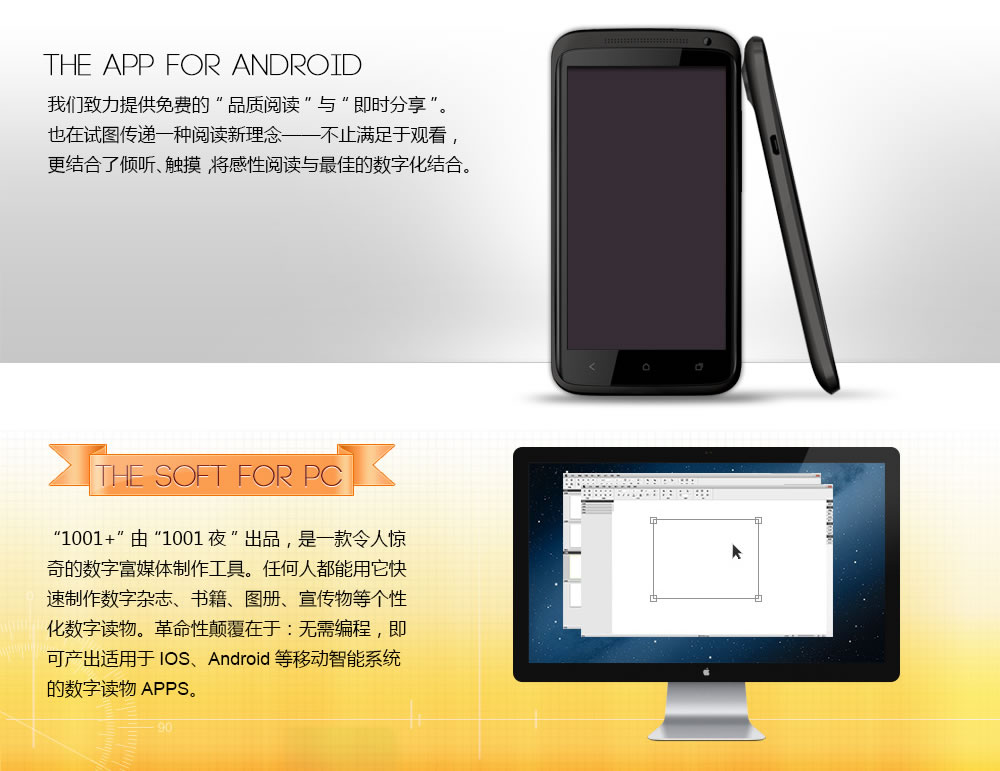
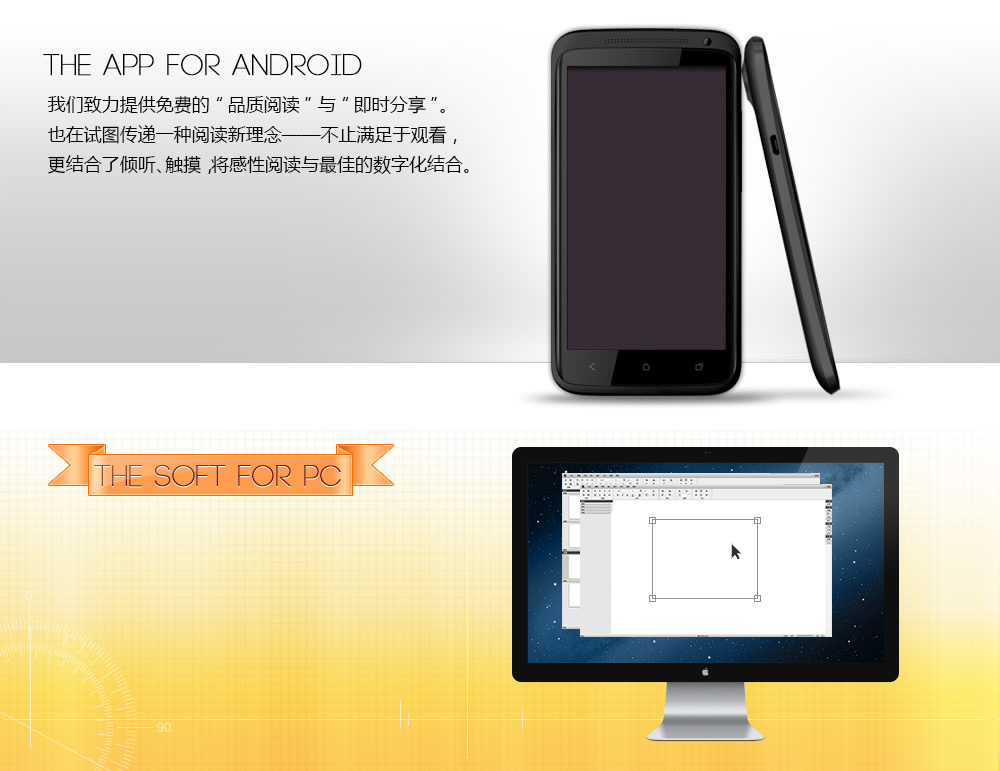
Update pctool introduction in down page

diff --git a/sta/styles/global.css b/sta/styles/global.css
@@ -553,7 +553,7 @@ div.set_main.tag dd a{ float:left; display:inline; padding:5px 10px; background:
 .client_down dd div.intro{ height:430px; background:url(/sta/images/down_banner.jpg) no-repeat -1px top; position:relative;}
 .client_down dd.pc div.intro{ background-position:-1px -430px;}
 .client_down dd.android{ display:none;}
-.client_down dd.pc a{ position:absolute; left:320px; top:300px; font-size:16px; font-family:'Microsoft YaHei',SimHei,'LiHei Pro Medium'; text-decoration:underline;}
+.client_down dd.pc a{ position:absolute; left:320px; top:300px; font-size:18px; font-family:'Microsoft YaHei',SimHei,'LiHei Pro Medium'; text-decoration:underline;}
 .client_down dd li{ float:left; width:309px; height:200px; padding-left:150px; padding-right:40px; font-size:14px; line-height:24px; background:url(/sta/images/ico_down.gif) no-repeat;}
 .client_down dd li strong{ font-family:'Microsoft YaHei',SimHei,'LiHei Pro Medium'; font-size:24px; display:block; padding-bottom:15px;}
 .client_down dd.android div.intro a.downbtn{ position:absolute; left:50px; top:210px; display:block; width:232px; height:52px; text-indent:-600px; background:url(/sta/images/btn_down.png) no-repeat left top;}

diff --git a/sta/styles/main.scss b/sta/styles/main.scss
@@ -208,7 +208,7 @@
 		font-weight: bold;
 	}
 } /* }}} */
-#signin,#signup {
+body#signin,body#signup {
 	hr {
 		position: relative;
 		top: 80px;
@@ -330,7 +330,7 @@
 	a.edit{ display:inline-block; width:16px; height:16px; margin-bottom:-3px; background:url(/sta/images/ico_setting.png) no-repeat left top; text-indent:-150px; _text-indent:inherit; _font-size:1px; overflow:hidden;}
 } /* }}} */
 
-#mag_tag { /* {{{ */
+body#mag_tag { /* {{{ */
 	div.main .menu {
 		background: transparent;
 		border-bottom: 1px solid #E8E8E8;
@@ -349,6 +349,16 @@
 		}
 	}
 } /* }}} */
+body#down {
+	.intro_text {
+		padding-top: 84px;
+		padding-left: 48px;
+		font-size: 16px;
+		line-height: 30px;
+		width: 400px;
+		text-indent: 30px;
+	}
+}
 
 /*
 vim: fdm=marker

diff --git a/application/controllers/magazine.php b/application/controllers/magazine.php
@@ -350,6 +350,7 @@ class Magazine extends MY_Controller {
 		$data = array(
 				'type' => $type,
 				'curnav' => 'soft',
+				'pageid' => 'down',
 				);
 		if ($type == 'pc') {
 			$this->load->library('session');
